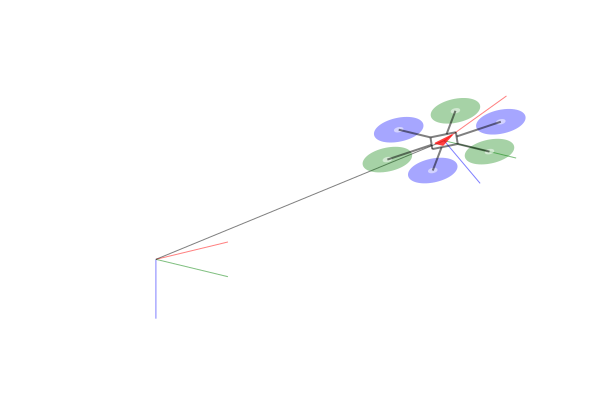
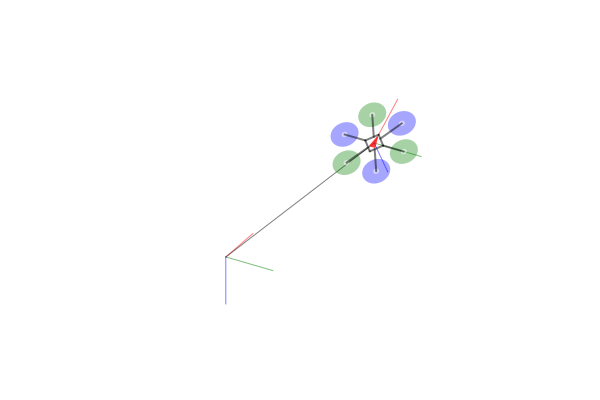
Update for FlightSims.jl v1.0 (#6)
* Update

* Update version

diff --git a/README.md b/README.md
@@ -22,5 +22,9 @@ You can find the following examples from `test/plots.jl`.
 ### Problem description for hexacopter control
 ![ex_screenshot](./figures/prob_description.png)
 
+### Hexacopter alone
+![ex_screenshot](./figures/hexacopter_alone.png)
+
+
 ## Used in other projects
 - [JinraeKim/KSAS2021Fall](https://github.com/JinraeKim/KSAS2021Fall)
